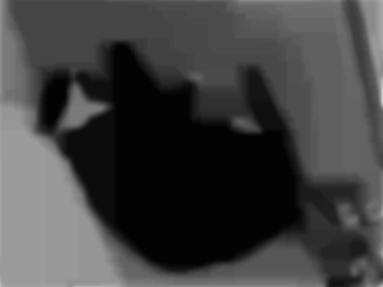
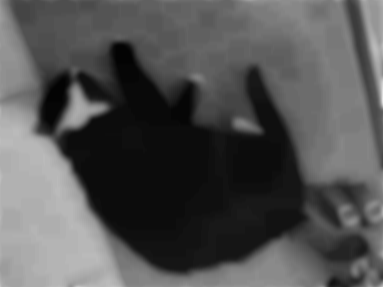
fixes #42 copy pixel array before applying box blur
- also add tests for BoxBlurX and BoxBlurY

diff --git a/src/main/golang/images/lib/images.go b/src/main/golang/images/lib/images.go
@@ -18,35 +18,45 @@ func BoxBlur(img image.Image, radius int, depth int) image.Gray {
 	gray := GreyScale(img)
 	i := 0
 	for i < depth {
-		doBoxBlurX(gray, radius)
-		doBoxBlurY(gray, radius)
+		gray = doBoxBlurX(gray, radius)
+		gray = doBoxBlurY(gray, radius)
 		i++
 	}
 	return gray
 }
 
 func BoxBlurX(img image.Image, radius int, depth int) image.Gray {
-	gray := GreyScale(img)
+	return BoxBlurGrayX(GreyScale(img), radius, depth)
+}
+
+func BoxBlurGrayX(img image.Gray, radius int, depth int) image.Gray {
+	gray := img
 	i := 0
 	for i < depth {
-		doBoxBlurX(gray, radius)
+		gray = doBoxBlurX(gray, radius)
 		i++
 	}
 	return gray
 }
 
 func BoxBlurY(img image.Image, radius int, depth int) image.Gray {
-	gray := GreyScale(img)
+	return BoxBlurGrayY(GreyScale(img), radius, depth)
+}
+
+func BoxBlurGrayY(img image.Gray, radius int, depth int) image.Gray {
+	gray := img
 	i := 0
 	for i < depth {
-		doBoxBlurY(gray, radius)
+		gray = doBoxBlurY(gray, radius)
 		i++
 	}
 	return gray
 }
 
-func doBoxBlurX(gray image.Gray, radius int) {
-	pixels := gray.Pix
+func doBoxBlurX(gray image.Gray, radius int) image.Gray {
+	grayCopy := copyGray(gray)
+	originalPixels := gray.Pix
+	copyPixels := grayCopy.Pix
 	divisor := uint8(2*radius + 1)
 
 	row := 0
@@ -55,22 +65,26 @@ func doBoxBlurX(gray image.Gray, radius int) {
 		col := radius
 		for col < gray.Stride-radius {
 			center := row*gray.Stride + col
-			newVal := pixels[center] / divisor
+			newVal := originalPixels[center] / divisor
 			r := 1
 			for r <= radius {
-				newVal = newVal + pixels[center+r]/divisor
-				newVal = newVal + pixels[center-r]/divisor
+				newVal = newVal + originalPixels[center+r]/divisor
+				newVal = newVal + originalPixels[center-r]/divisor
 				r++
 			}
-			pixels[center] = newVal
+			copyPixels[center] = newVal
 			col++
 		}
 		row++
 	}
+
+	return grayCopy
 }
 
-func doBoxBlurY(gray image.Gray, radius int) {
-	pixels := gray.Pix
+func doBoxBlurY(gray image.Gray, radius int) image.Gray {
+	grayCopy := copyGray(gray)
+	originalPixels := gray.Pix
+	copyPixels := grayCopy.Pix
 	divisor := uint8(2*radius + 1)
 
 	row := radius
@@ -79,18 +93,20 @@ func doBoxBlurY(gray image.Gray, radius int) {
 		col := 0
 		for col < gray.Stride {
 			center := row*gray.Stride + col
-			newVal := pixels[center] / divisor
+			newVal := originalPixels[center] / divisor
 			r := 1
 			for r <= radius {
-				newVal = newVal + pixels[(row+r)*gray.Stride+col]/divisor
-				newVal = newVal + pixels[(row-r)*gray.Stride+col]/divisor
+				newVal = newVal + originalPixels[(row+r)*gray.Stride+col]/divisor
+				newVal = newVal + originalPixels[(row-r)*gray.Stride+col]/divisor
 				r++
 			}
-			pixels[center] = newVal
+			copyPixels[center] = newVal
 			col++
 		}
 		row++
 	}
+
+	return grayCopy
 }
 
 func copyGray(img image.Gray) image.Gray {

diff --git a/src/main/golang/images/lib/images_test.go b/src/main/golang/images/lib/images_test.go
@@ -7,11 +7,8 @@ import (
 )
 
 func TestGreyScaleImage(t *testing.T) {
-	img := image.NewRGBA(image.Rectangle{
-		Min: image.Point{X: 0, Y: 0},
-		Max: image.Point{X: 3, Y: 3},
-	})
-	fillImage(*img, color.RGBA{R: 0, G: 100, B: 50, A: 255})
+	img := newRBGA(3, 3)
+	fillRGBA(*img, color.RGBA{R: 0, G: 100, B: 50, A: 255})
 
 	grey := GreyScale(img)
 	for _, b := range grey.Pix {
@@ -21,7 +18,65 @@ func TestGreyScaleImage(t *testing.T) {
 	}
 }
 
-func fillImage(img image.RGBA, rgba color.RGBA) {
+func TestBoxBlurX(t *testing.T) {
+	img := newGray(4, 1, color.Gray{Y: 0})
+	copy(img.Pix, []uint8{3, 9, 12, 3})
+
+	blurred := BoxBlurGrayX(img, 1, 1)
+	blurredPixels := blurred.Pix
+
+	expectedPixels := []uint8{3, 8, 8, 3}
+
+	i := 0
+	for i < len(blurredPixels) {
+		if blurredPixels[i] != expectedPixels[i] {
+			t.Fatal("expected", expectedPixels, "actual", blurredPixels)
+		}
+		i++
+	}
+}
+
+func TestBoxBlurY(t *testing.T) {
+	img := newGray(1, 4, color.Gray{Y: 0})
+	copy(img.Pix, []uint8{3, 9, 12, 3})
+
+	blurred := BoxBlurGrayY(img, 1, 1)
+	blurredPixels := blurred.Pix
+
+	expectedPixels := []uint8{3, 8, 8, 3}
+
+	i := 0
+	for i < len(blurredPixels) {
+		if blurredPixels[i] != expectedPixels[i] {
+			t.Fatal("expected", expectedPixels, "actual", blurredPixels)
+		}
+		i++
+	}
+}
+
+func newRBGA(width int, height int) *image.RGBA {
+	return image.NewRGBA(image.Rectangle{
+		Min: image.Point{X: 0, Y: 0},
+		Max: image.Point{X: width, Y: height},
+	})
+}
+
+func newGray(width int, height int, gray color.Gray) image.Gray {
+	img := image.NewGray(image.Rectangle{
+		Min: image.Point{X: 0, Y: 0},
+		Max: image.Point{X: width, Y: height},
+	})
+	pixels := img.Pix
+	i := 0
+	for i < len(pixels) {
+		pixels[i] = gray.Y
+		i++
+	}
+
+	return *img
+}
+
+func fillRGBA(img image.RGBA, rgba color.RGBA) {
 	row := 0
 	for row < img.Bounds().Dy() {
 		col := 0
